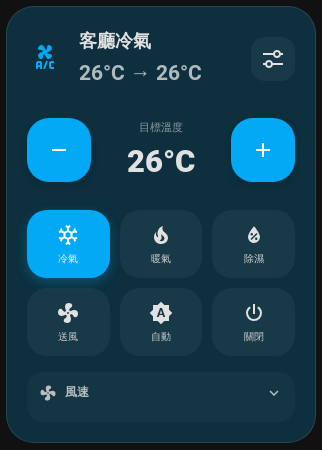
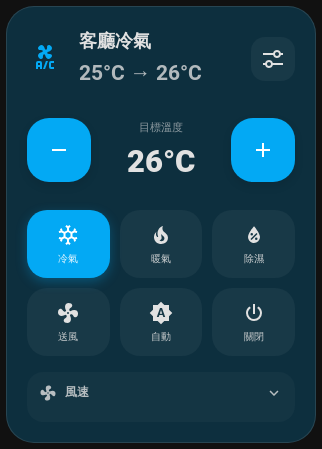
Highlight same-device popup as the core feature with live screenshots.
Document the top-right button flow and add real popup captures for climate, fan, cover, and light.

diff --git a/info.md b/info.md
@@ -1,25 +1,22 @@
 # Universal Device Card
 
-Home Assistant 通用裝置卡片：依實體類型自動顯示控制項，並支援彈出層查看同裝置相關實體。
+Home Assistant 通用裝置卡片。
+
+## 精髓
+
+主畫面只放常用控制；**點右上角按鈕**會彈出**同一 device** 上的其它感測數據與控制項目（開關、模式、風向、功耗…），不必再翻實體清單。
+
+可用 `disable_popup` 關閉，或用 domain／entity／sensor class 過濾彈出層內容。
 
 ## 支援裝置類型
 
-- climate（冷氣／空調）
-- light（燈光）
-- fan（風扇／空淨）
-- cover（窗簾／遮蔽）
-- media_player（喇叭／影音）
-- vacuum（掃地機）
-- water_heater（熱水器）
-- humidifier、generic 等其他實體
+- climate、light、fan、cover、media_player、vacuum、water_heater、humidifier、generic
 
 ## 安裝方式
 
-1. 安裝 [HACS](https://hacs.xyz/)（若尚未安裝）
-2. HACS → 前端 → 自訂儲存庫，新增 `https://github.com/n71154plus/universal-device-card`（類型：Dashboard）
-3. 下載並安裝 **Universal Device Card**
-4. 資源路徑：`/hacsfiles/universal-device-card/universal-device-card.js`（JavaScript Module）
-5. 儀表板新增卡片，選擇「Universal Device Card」並設定 `entity`
+1. 安裝 [HACS](https://hacs.xyz/)
+2. 自訂儲存庫：`https://github.com/n71154plus/universal-device-card`（Dashboard）
+3. 安裝後資源：`/hacsfiles/universal-device-card/universal-device-card.js`（JavaScript Module）
 
 ## 快速設定
 
@@ -28,16 +25,7 @@ type: custom:universal-device-card
 entity: climate.living_room
 layout: standard   # standard | mini | bar
 language: zh-TW
+disable_popup: false
 ```
 
-### 常用選項
-
-- **entity**：主要裝置實體（必填）
-- **layout**：`standard` / `mini` / `bar`
-- **language**：`auto` / `en` / `zh-TW` / `zh-CN` / `ja`
-- **disable_popup**：停用彈出層
-- **animations** / **performance_mode**：動畫與效能
-- **show_buttons**：主畫面額外 button 實體
-- **popup filters**：`exclude_domains`、`include_domains`、`exclude_entities`、`include_entities` 等
-
-完整說明與預覽圖請見 [README](README.md)。
+完整說明與預覽圖（含彈出層）見 [README](README.md)。
